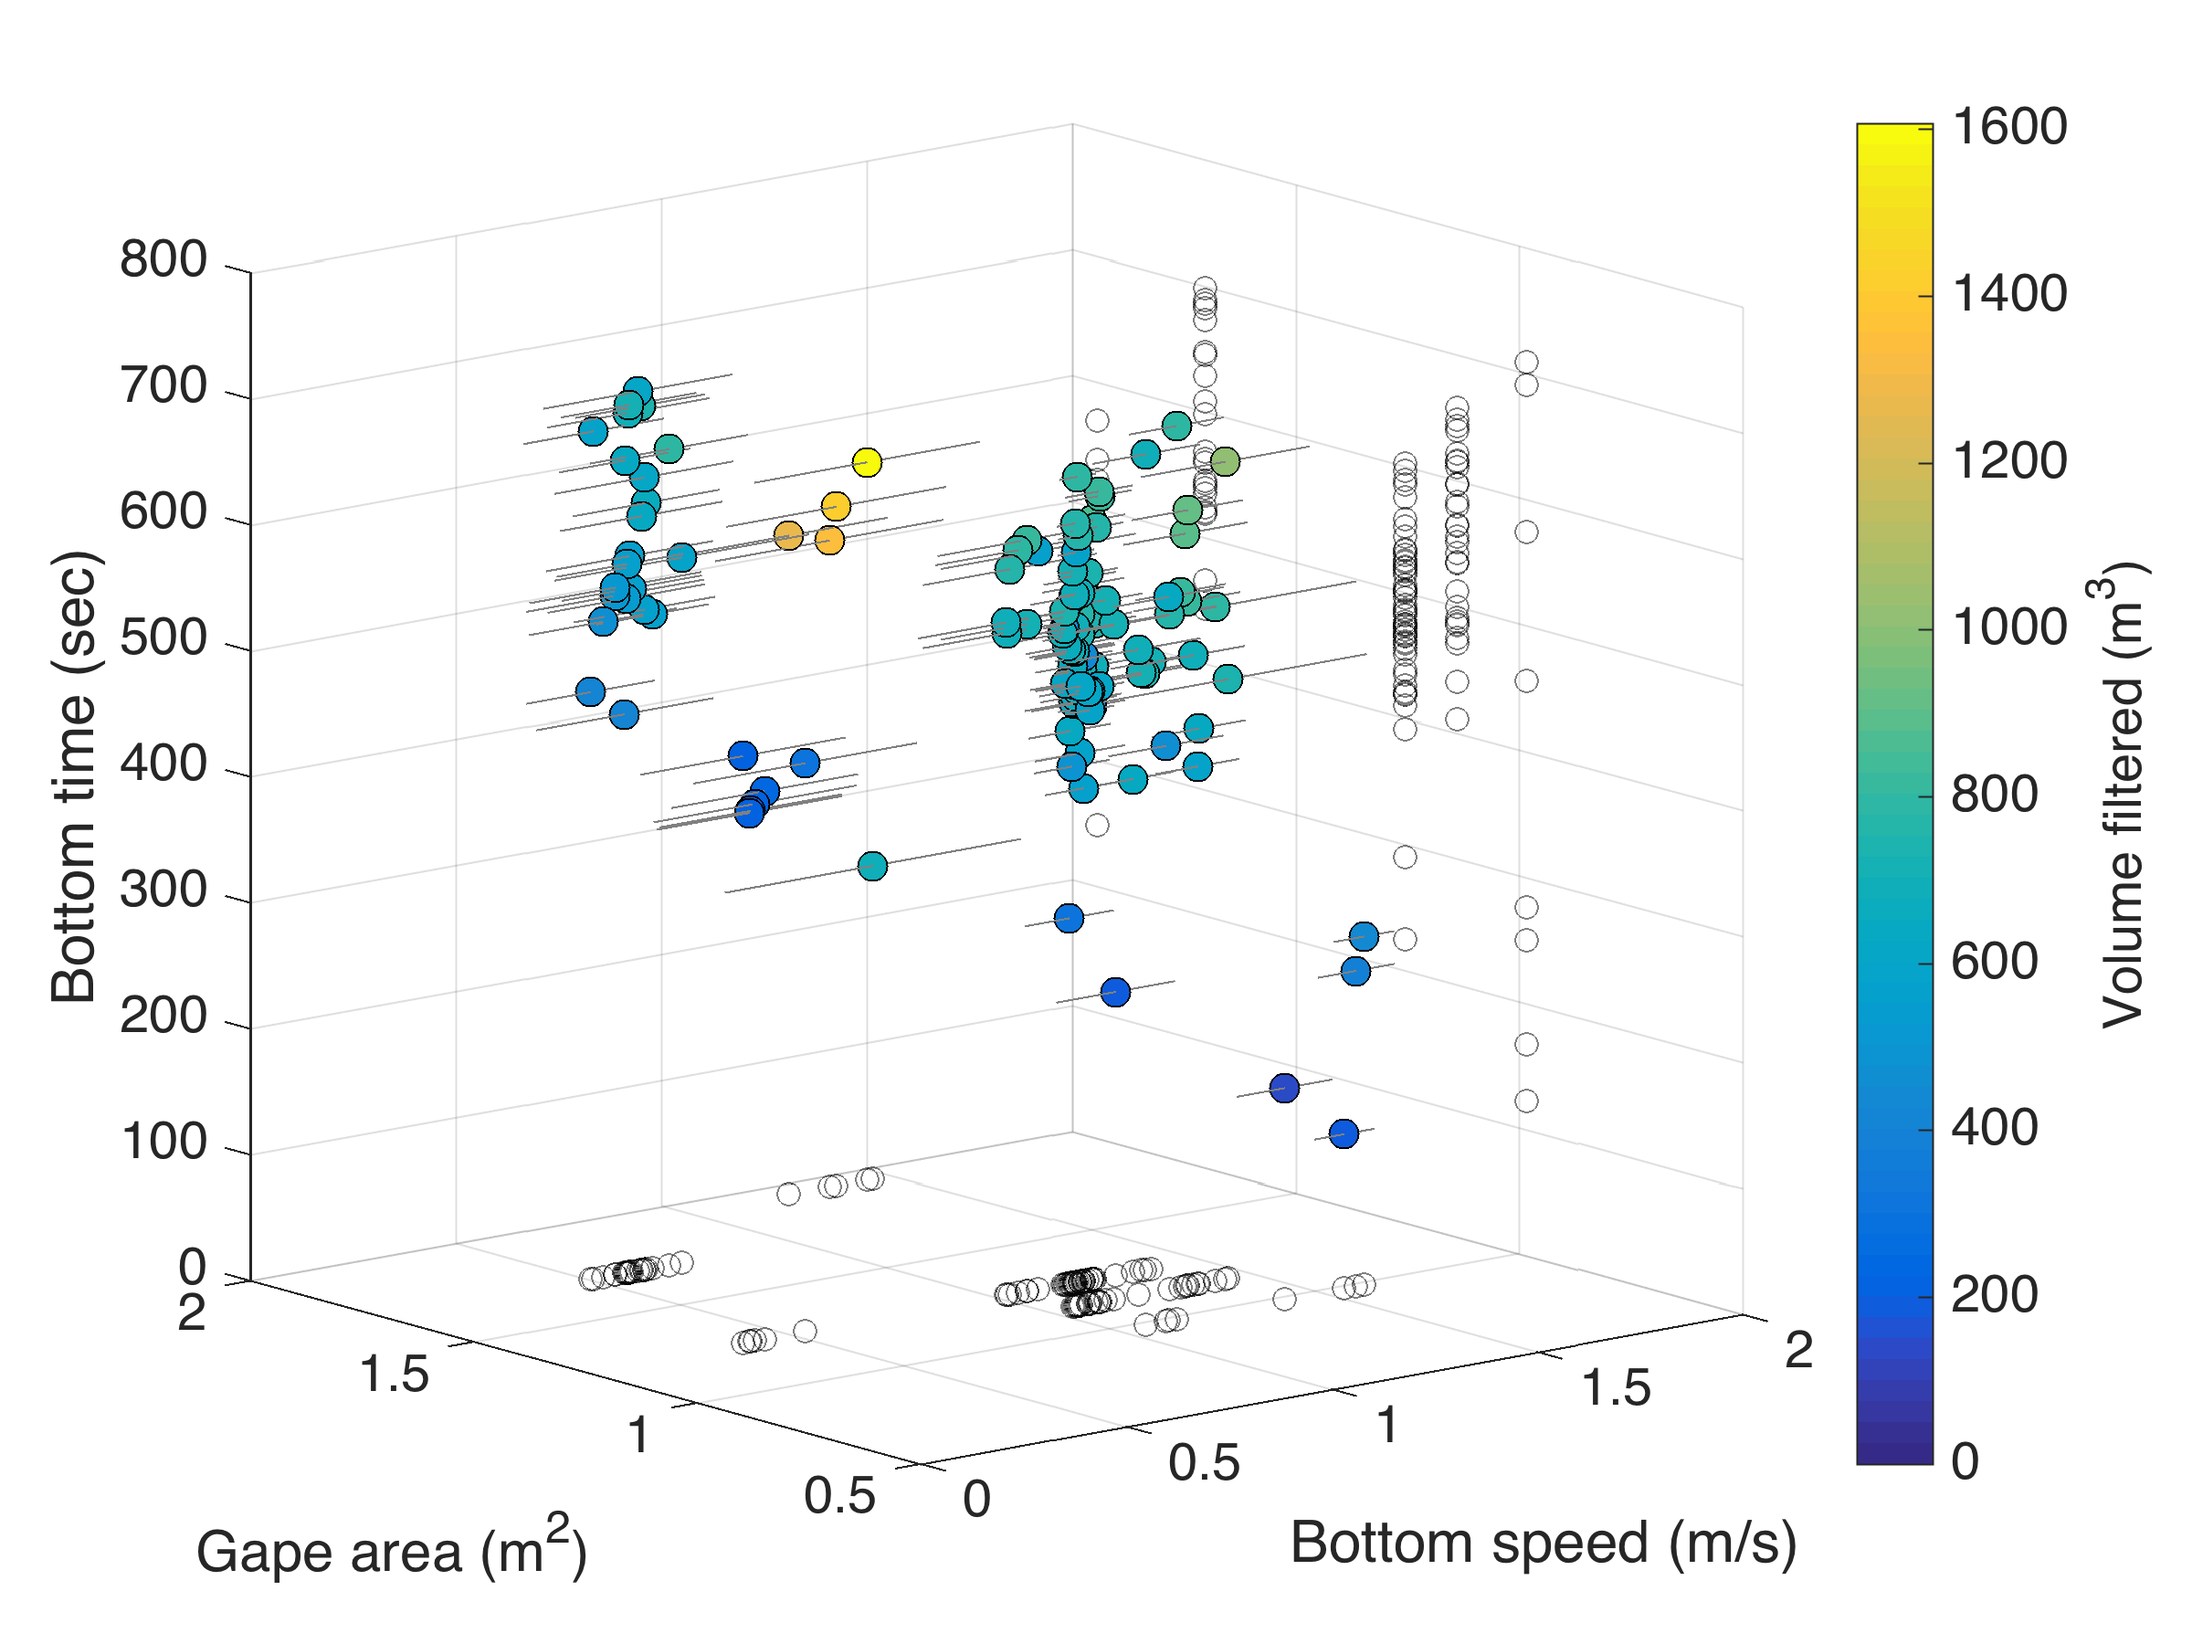
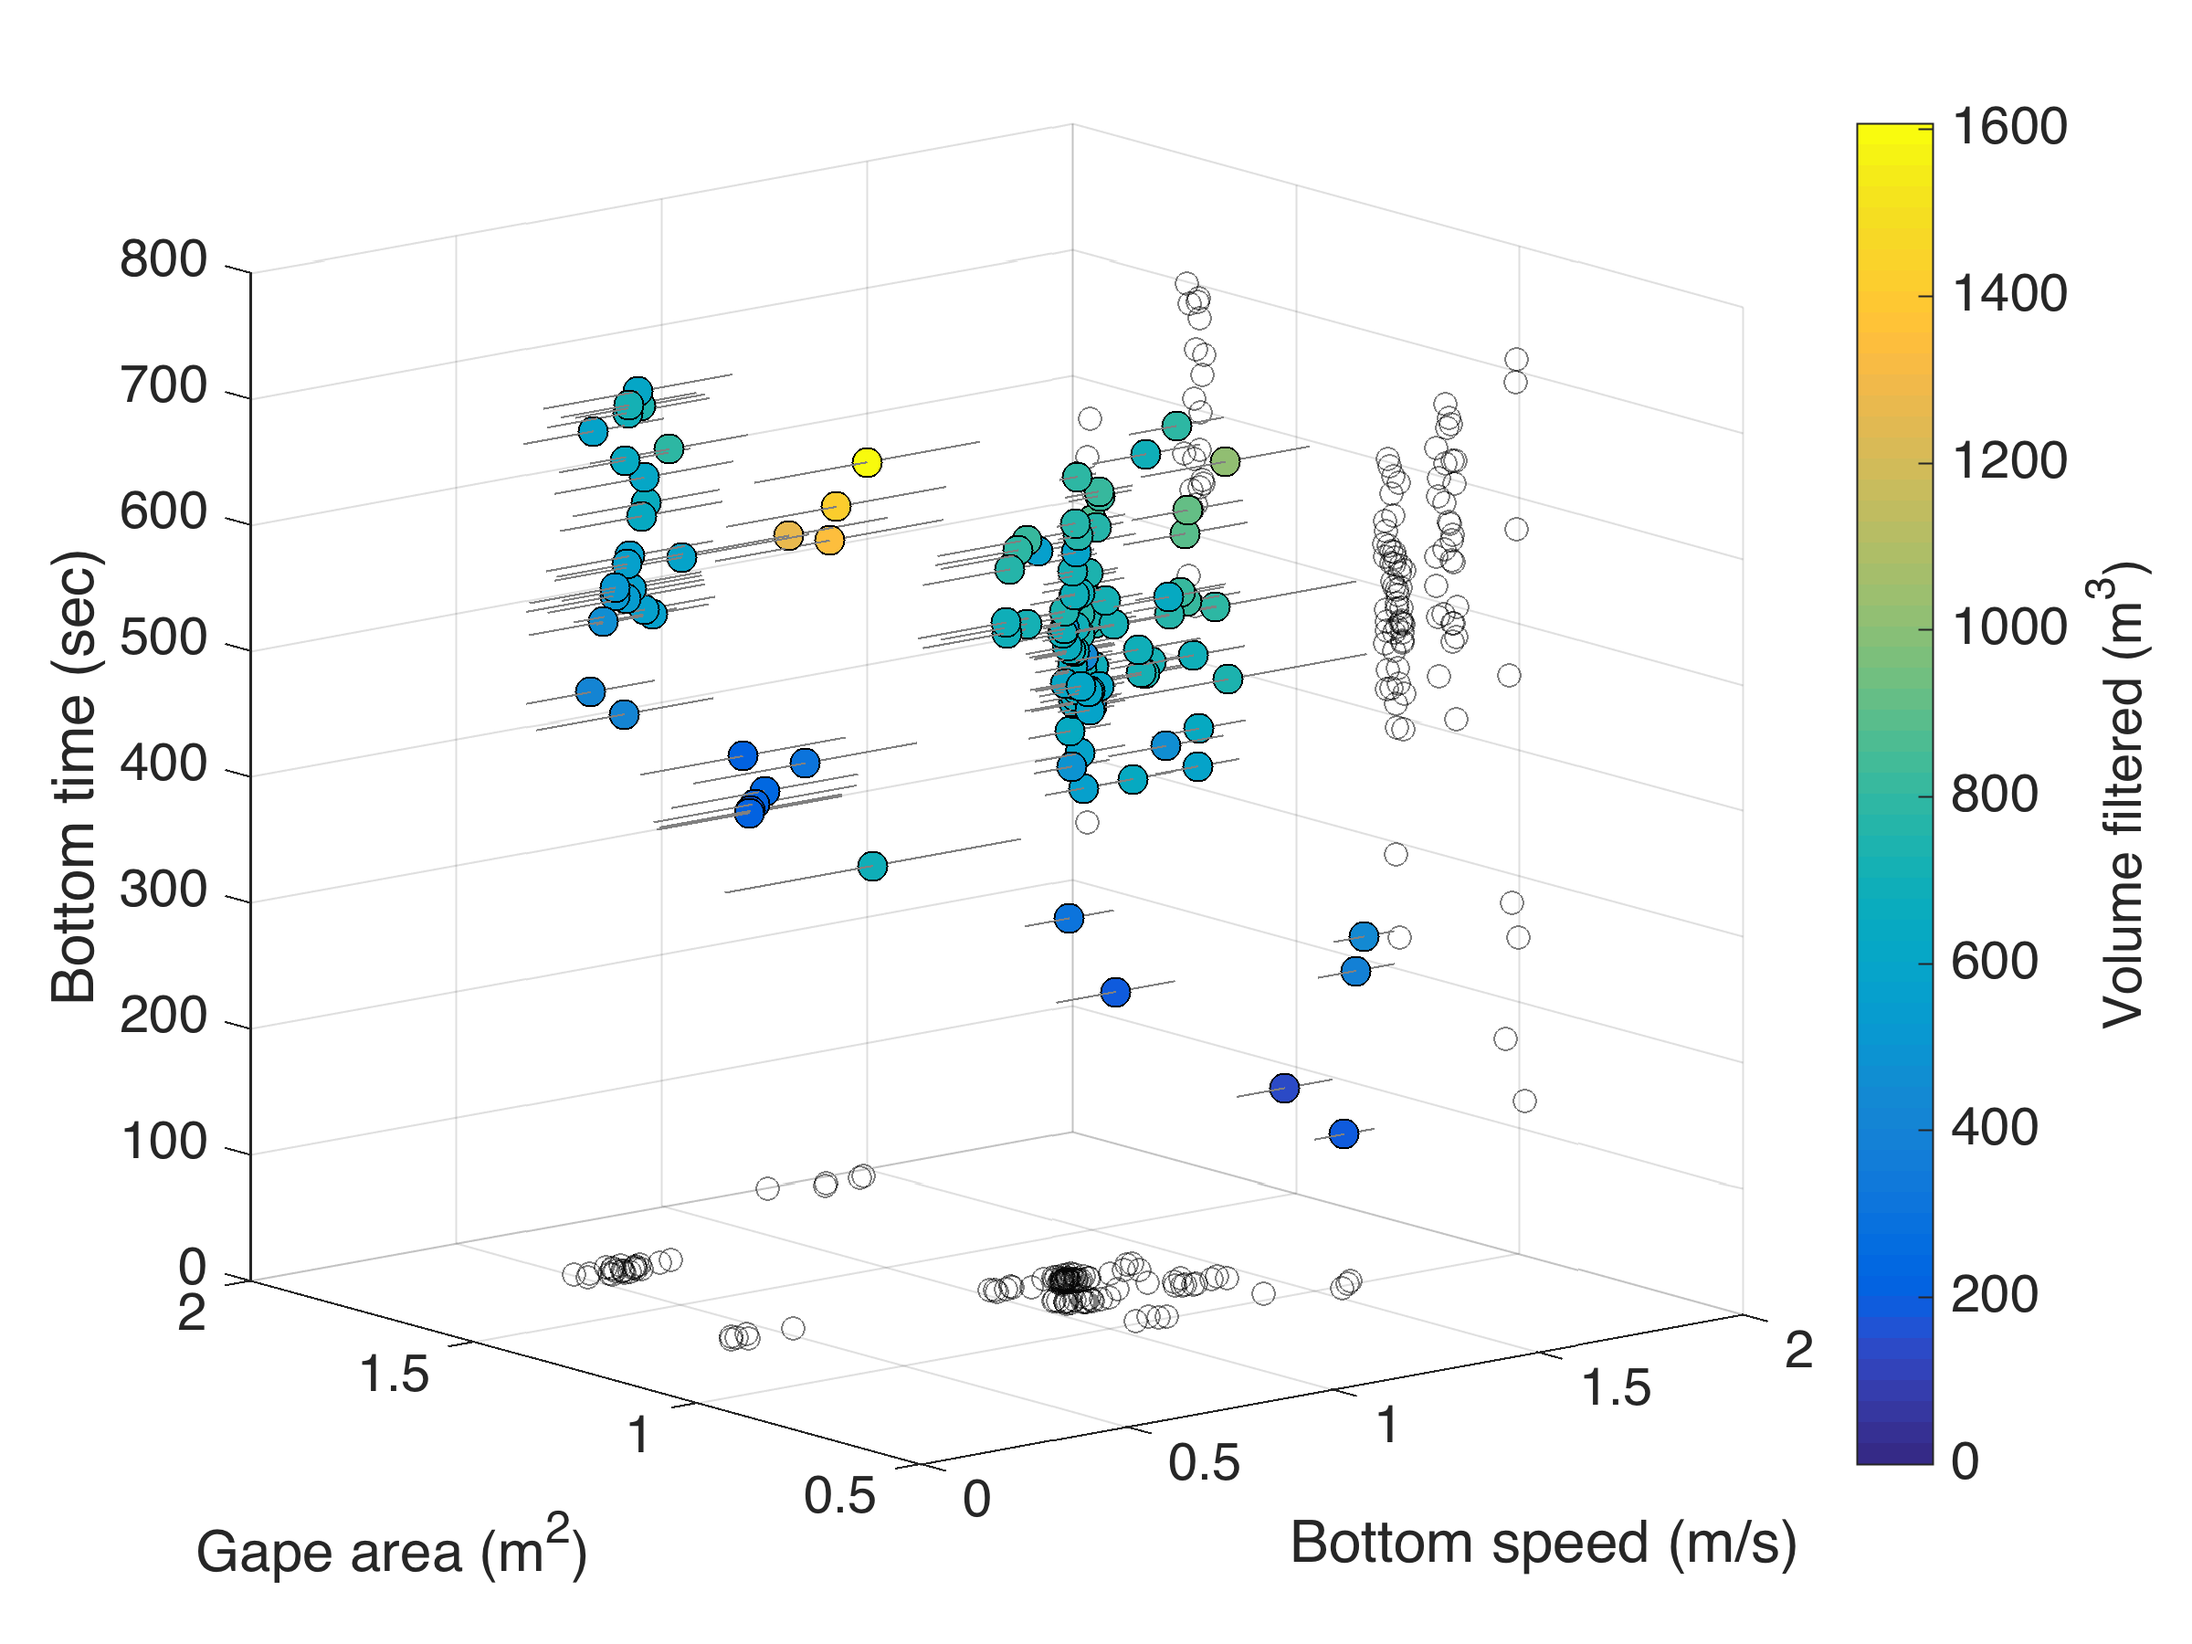
jitter gape for figure

diff --git a/NARW_totalVolume.m b/NARW_totalVolume.m
@@ -113,8 +113,9 @@ h = plot3([allbtmspeed(i)-sdbtmspeed(i) allbtmspeed(i)+sdbtmspeed(i)],[gapes(i) 
 alpha(h,0.5)
 end
 scatter3(allbtmspeed,gapes,(allprop(:,2)-allprop(:,1)).*alldur,60,allvperdive,'filled','markeredgecolor','k')
-h = scatter(allbtmspeed,gapes,'ko','markeredgealpha',0.5); % projection on bottom
-h = scatter3(2+zeros(length(gapes),1),gapes,(allprop(:,2)-allprop(:,1)).*alldur,'ko','markeredgealpha',0.5);  % projection on wall
+jit = rand(size(gapes));
+h = scatter(allbtmspeed,gapes+jit/20,'ko','markeredgealpha',0.5); % projection on bottom
+h = scatter3(2+zeros(length(gapes),1),gapes+jit/20,(allprop(:,2)-allprop(:,1)).*alldur,'ko','markeredgealpha',0.5);  % projection on wall
 % h = scatter3(allbtmspeed,2+zeros(length(gapes),1),(allprop(:,2)-allprop(:,1)).*alldur,'ko','markeredgealpha',0.5);  % projection on wall
 xlabel('Bottom speed (m/s)')
 ylabel('Gape area (m^2)')
